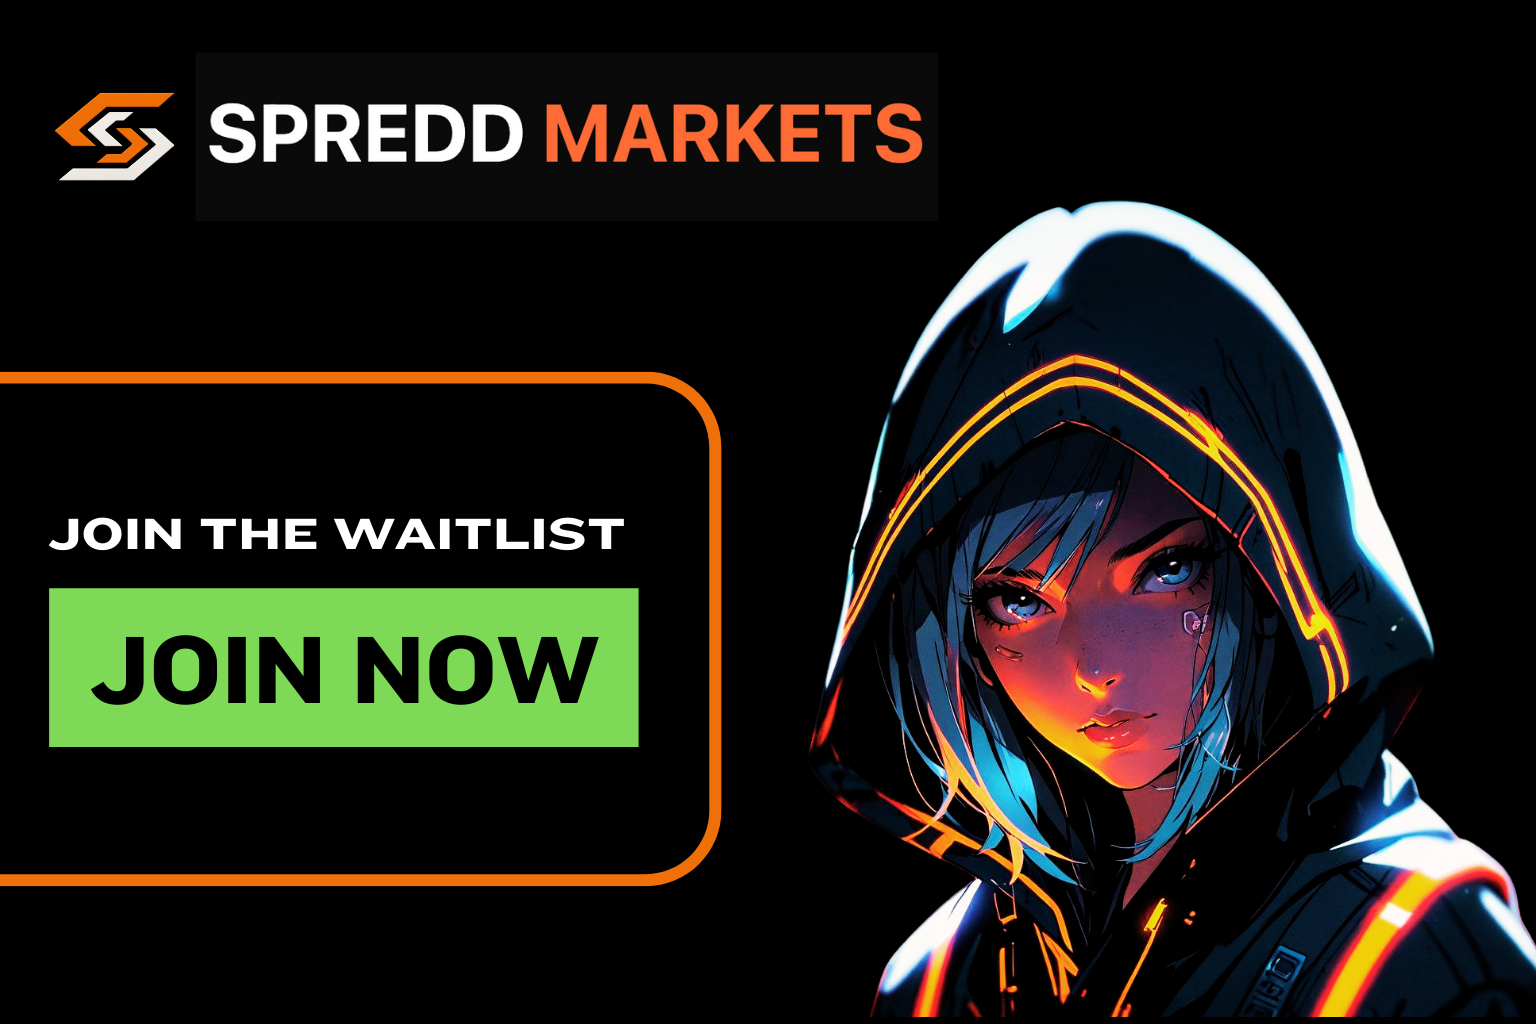
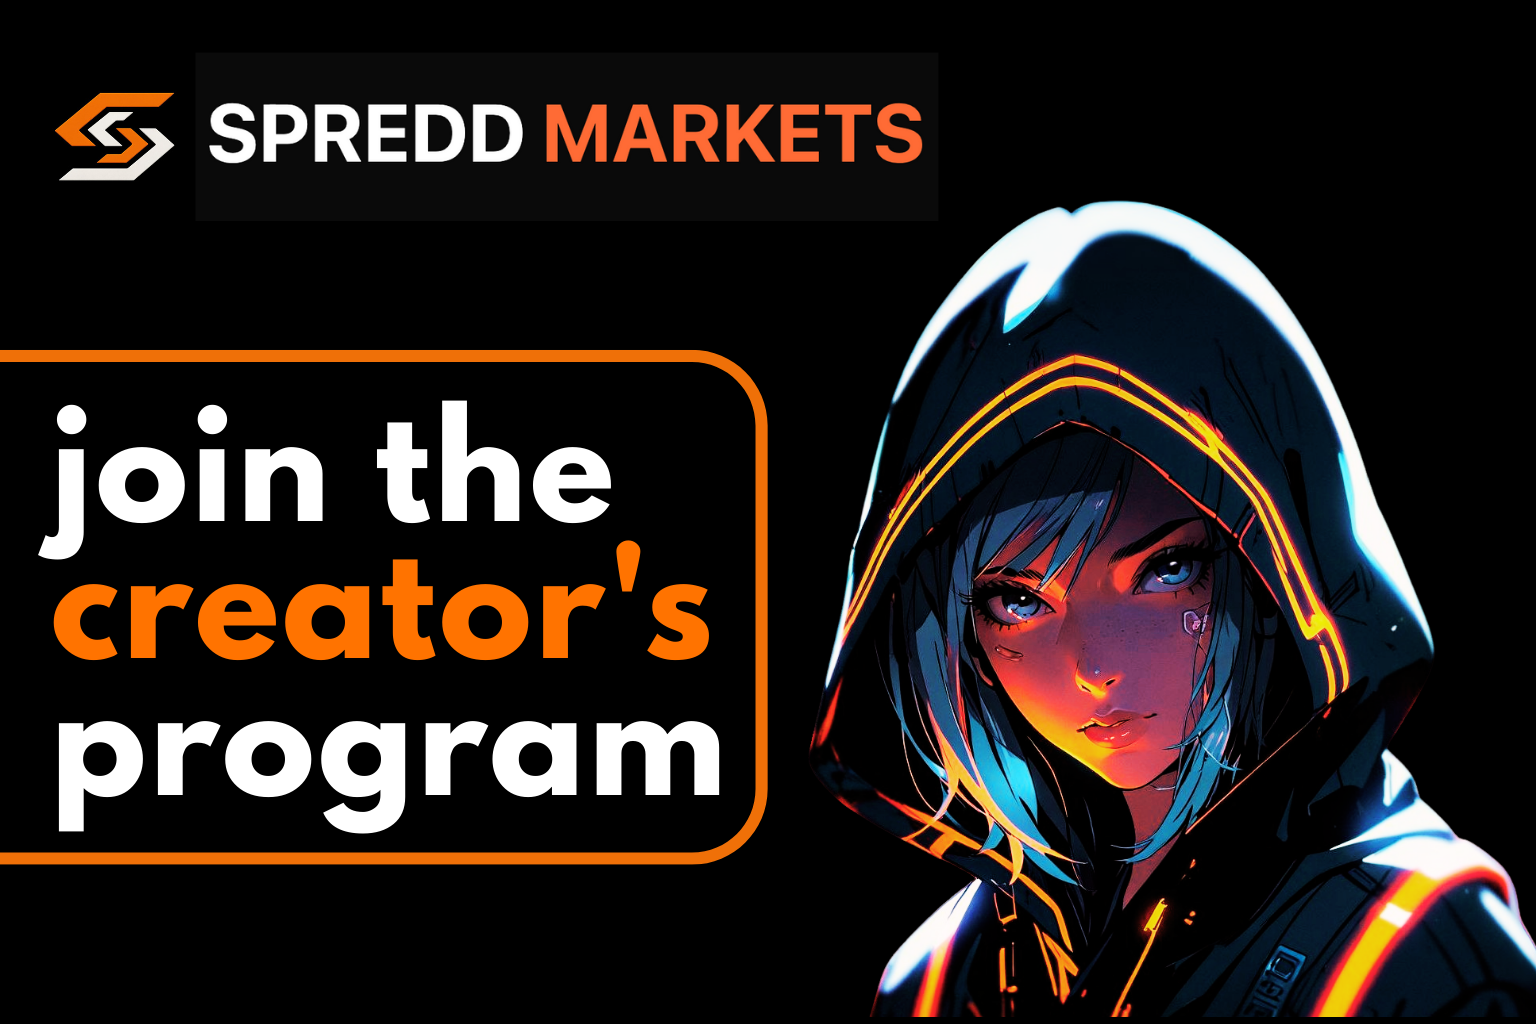
changes in creator page

Changed region(s): [[0.0, 0.3438, 0.5, 0.875]]

diff --git a/src/pages/Waitlist.tsx b/src/pages/Waitlist.tsx
@@ -30,14 +30,17 @@ const Waitlist = () => {
   const { success } = useToast();
 
   // Use the share page which contains Open Graph tags to ensure a social preview/image is attached.
-  const shareUrl = 'https://spredd.markets/share';
+  const shareUrl = 'https://spredd.markets/creators';
 
   const handleShareX = () => {
-  // Use canonical share page only (do not include referral parameters)
-  const place = position ?? totalUsers ?? '';
-  const referralUrl = shareUrl;
-  // Share copy with only the main link; image preview comes from the share page OG tags.
-  const text = `I’m #${place} on Spredd — where your predictions become market signals and rewards. Be part of the signal: ${referralUrl}`;
+  // New creator program share text
+
+
+
+
+
+  // Concise creator-focused tweet copy. The share page provides the OG image.
+  const text = `Creators — build markets, reward your audience, and earn with $SPRDD. Join the creator's program: ${shareUrl} #SpreddTheWord`;
   const intentUrl = `https://x.com/intent/post?text=${encodeURIComponent(text)}`;
 
     // open centered popup
@@ -52,7 +55,7 @@ const Waitlist = () => {
   // install flow removed — not used when directing straight to X
 
   useEffect(() => {
-    const saved = localStorage.getItem('spredd-waitlist');
+    const saved = localStorage.getItem('spredd-creators');
     if (saved) {
       const data = JSON.parse(saved);
       setTotalUsers(data.totalUsers || 0);
@@ -74,7 +77,7 @@ const Waitlist = () => {
         const returnedUsername = (result.user.username || '').toString().toLowerCase();
         const alreadyJoined = userList.some(u => (u.handle || '').replace(/^@/, '').toLowerCase() === returnedUsername);
         if (alreadyJoined) {
-          setValidationError('This username has already joined the waitlist');
+          setValidationError("This username has already joined the creator's program");
           setIsValidating(false);
           return;
         }
@@ -94,7 +97,7 @@ const Waitlist = () => {
         setIsJoined(true);
         setCurrentUser({ avatar: newUser.avatar, name: newUser.name, handle: newUser.handle });
 
-        localStorage.setItem('spredd-waitlist', JSON.stringify({
+        localStorage.setItem('spredd-creators', JSON.stringify({
           totalUsers: newPosition,
           userList: updatedUserList
         }));
@@ -126,14 +129,14 @@ const Waitlist = () => {
         {!isJoined ? (
           <div className="text-center mb-8">
             <p className="text-gray-400 mb-2">Others ahead of you</p>
-            <div className="text-6xl font-bold" style={{ color: '#00FFA3' }}>
+            <div className="text-6xl font-bold text-white">
               {totalUsers.toLocaleString()}
             </div>
           </div>
         ) : (
           <div className="text-center mb-8">
             <p className="text-gray-400 mb-2">Your position:</p>
-            <div className="text-6xl font-bold" style={{ color: '#00FFA3' }}>
+            <div className="text-6xl font-bold text-white">
               #{position?.toLocaleString()}
             </div>
           </div>
@@ -141,7 +144,7 @@ const Waitlist = () => {
 
         {!isJoined ? (
           <div className="bg-orange-900/20 backdrop-blur-sm rounded-xl p-6 border border-orange-500/40 mb-8">
-            <h2 className="text-xl font-bold text-center text-white mb-2">Join the waitlist</h2>
+            <h2 className="text-xl font-bold text-center text-white mb-2">Join the creator's program</h2>
             <p className="text-gray-400 text-center mb-6">Experience AI-Powered Prediction Markets</p>
             <form onSubmit={handleJoinWaitlist}>
               <div className="mb-4">
@@ -174,7 +177,7 @@ const Waitlist = () => {
             {/* Primary waitlist card */}
             <div className="bg-orange-900/20 backdrop-blur-sm rounded-xl p-6 border border-orange-500/40 mb-4">
               <h2 className="text-2xl font-bold text-center text-white mb-2">#SpreddTheWord, {currentUser?.name ?? username}!</h2>
-              <p className="text-orange-200 text-center mb-6">You're on the waitlist</p>
+              <p className="text-orange-200 text-center mb-6">You're enrolled in the creator's program</p>
               <button onClick={handleShareX} className="w-full bg-white hover:bg-gray-100 text-black font-bold py-3 px-4 rounded-lg transition-colors mb-4">
                 Share to Earn Points
               </button>
@@ -195,7 +198,7 @@ const Waitlist = () => {
     </div>
     <div className="mt-2.5">
       <a
-        href="https://t.me/spreddtheword"
+        href="https://t.me/+ZS1eOedd03YyOTlh"
         target="_blank"
         rel="noreferrer"
         className="inline-flex items-center gap-3 bg-orange-600 hover:bg-orange-700 text-white font-semibold text-sm sm:text-base py-2 px-4 rounded-full"

diff --git a/public/creators/index.html b/public/creators/index.html
@@ -5,36 +5,29 @@
   <meta name="viewport" content="width=device-width,initial-scale=1" />
 
   <!-- Open Graph tags for social previews -->
-  <meta property="og:title" content="Spredd — Join the Creator's Program" />
+  <meta property="og:title" content="Spredd Creators" />
   <meta property="og:description" content="Creators: create markets, earn from engagement, and boost rewards with $SPRDD — join now." />
   <meta property="og:image" content="https://spredd.markets/joinpic.png" />
   <meta property="og:type" content="website" />
-  <meta property="og:url" content="https://spredd.markets/share" />
+  <meta property="og:url" content="https://spredd.markets/creators" />
 
-  <title>Spredd share</title>
+  <title>Spredd Creators</title>
 
   <style>
     html,body { height:100%; margin:0; display:flex; align-items:center; justify-content:center; background:#000; color:#fff; font-family:Inter, system-ui, -apple-system, 'Segoe UI', Roboto, 'Helvetica Neue', Arial; }
-    .card { max-width:640px; padding:24px; text-align:center; }
-    a { color:#ff8a4b; }
+    .card { max-width:900px; padding:24px; text-align:center; }
+    img { max-width:100%; height:auto; border-radius:12px; }
+    .cta { margin-top:18px; display:inline-block; background:#ff8a4b; color:#000; padding:12px 18px; border-radius:999px; font-weight:700; text-decoration:none; }
   </style>
-
-  <script>
-  // Always redirect to the canonical waitlist URL without preserving query strings
-    (function(){
-      try {
-    // Use replace so back-button doesn't keep this redirect page
-    window.location.replace('/waitlist');
-      } catch (e) {
-        console.error(e);
-      }
-    })();
-  </script>
 </head>
 <body>
   <div class="card">
-    <h1>Spredd</h1>
-    <p>Redirecting you to the creators program. If you are not redirected, <a id="link" href="/creators">click here</a>.</p>
+    <a href="/creators" aria-label="Go to Spredd Creators page">
+      <img src="/joinpic.png" alt="Join Spredd Creators Program" />
+    </a>
+    <div>
+      <a class="cta" href="/creators">Join the Creator Program</a>
+    </div>
   </div>
 </body>
 </html>

diff --git a/src/components/Navbar.tsx b/src/components/Navbar.tsx
@@ -142,7 +142,7 @@ const Navbar = () => {
     { name: "Explore", to: "/" },
     // { name: "Faucet", to: "/faucet" },
     { name: "Leaderboard", to: "/leaderboard" },
-    { name: "Waitlist", to: "/waitlist" },
+    { name: "Creators", to: "/creators" },
     // { name: "Stake", to: "/stake" },
   ];
 

diff --git a/src/App.tsx b/src/App.tsx
@@ -197,7 +197,7 @@ function AppContent() {
               }
             />
             <Route
-              path="/waitlist"
+              path="/creators"
               element={
                 <>
                   <Navbar />
